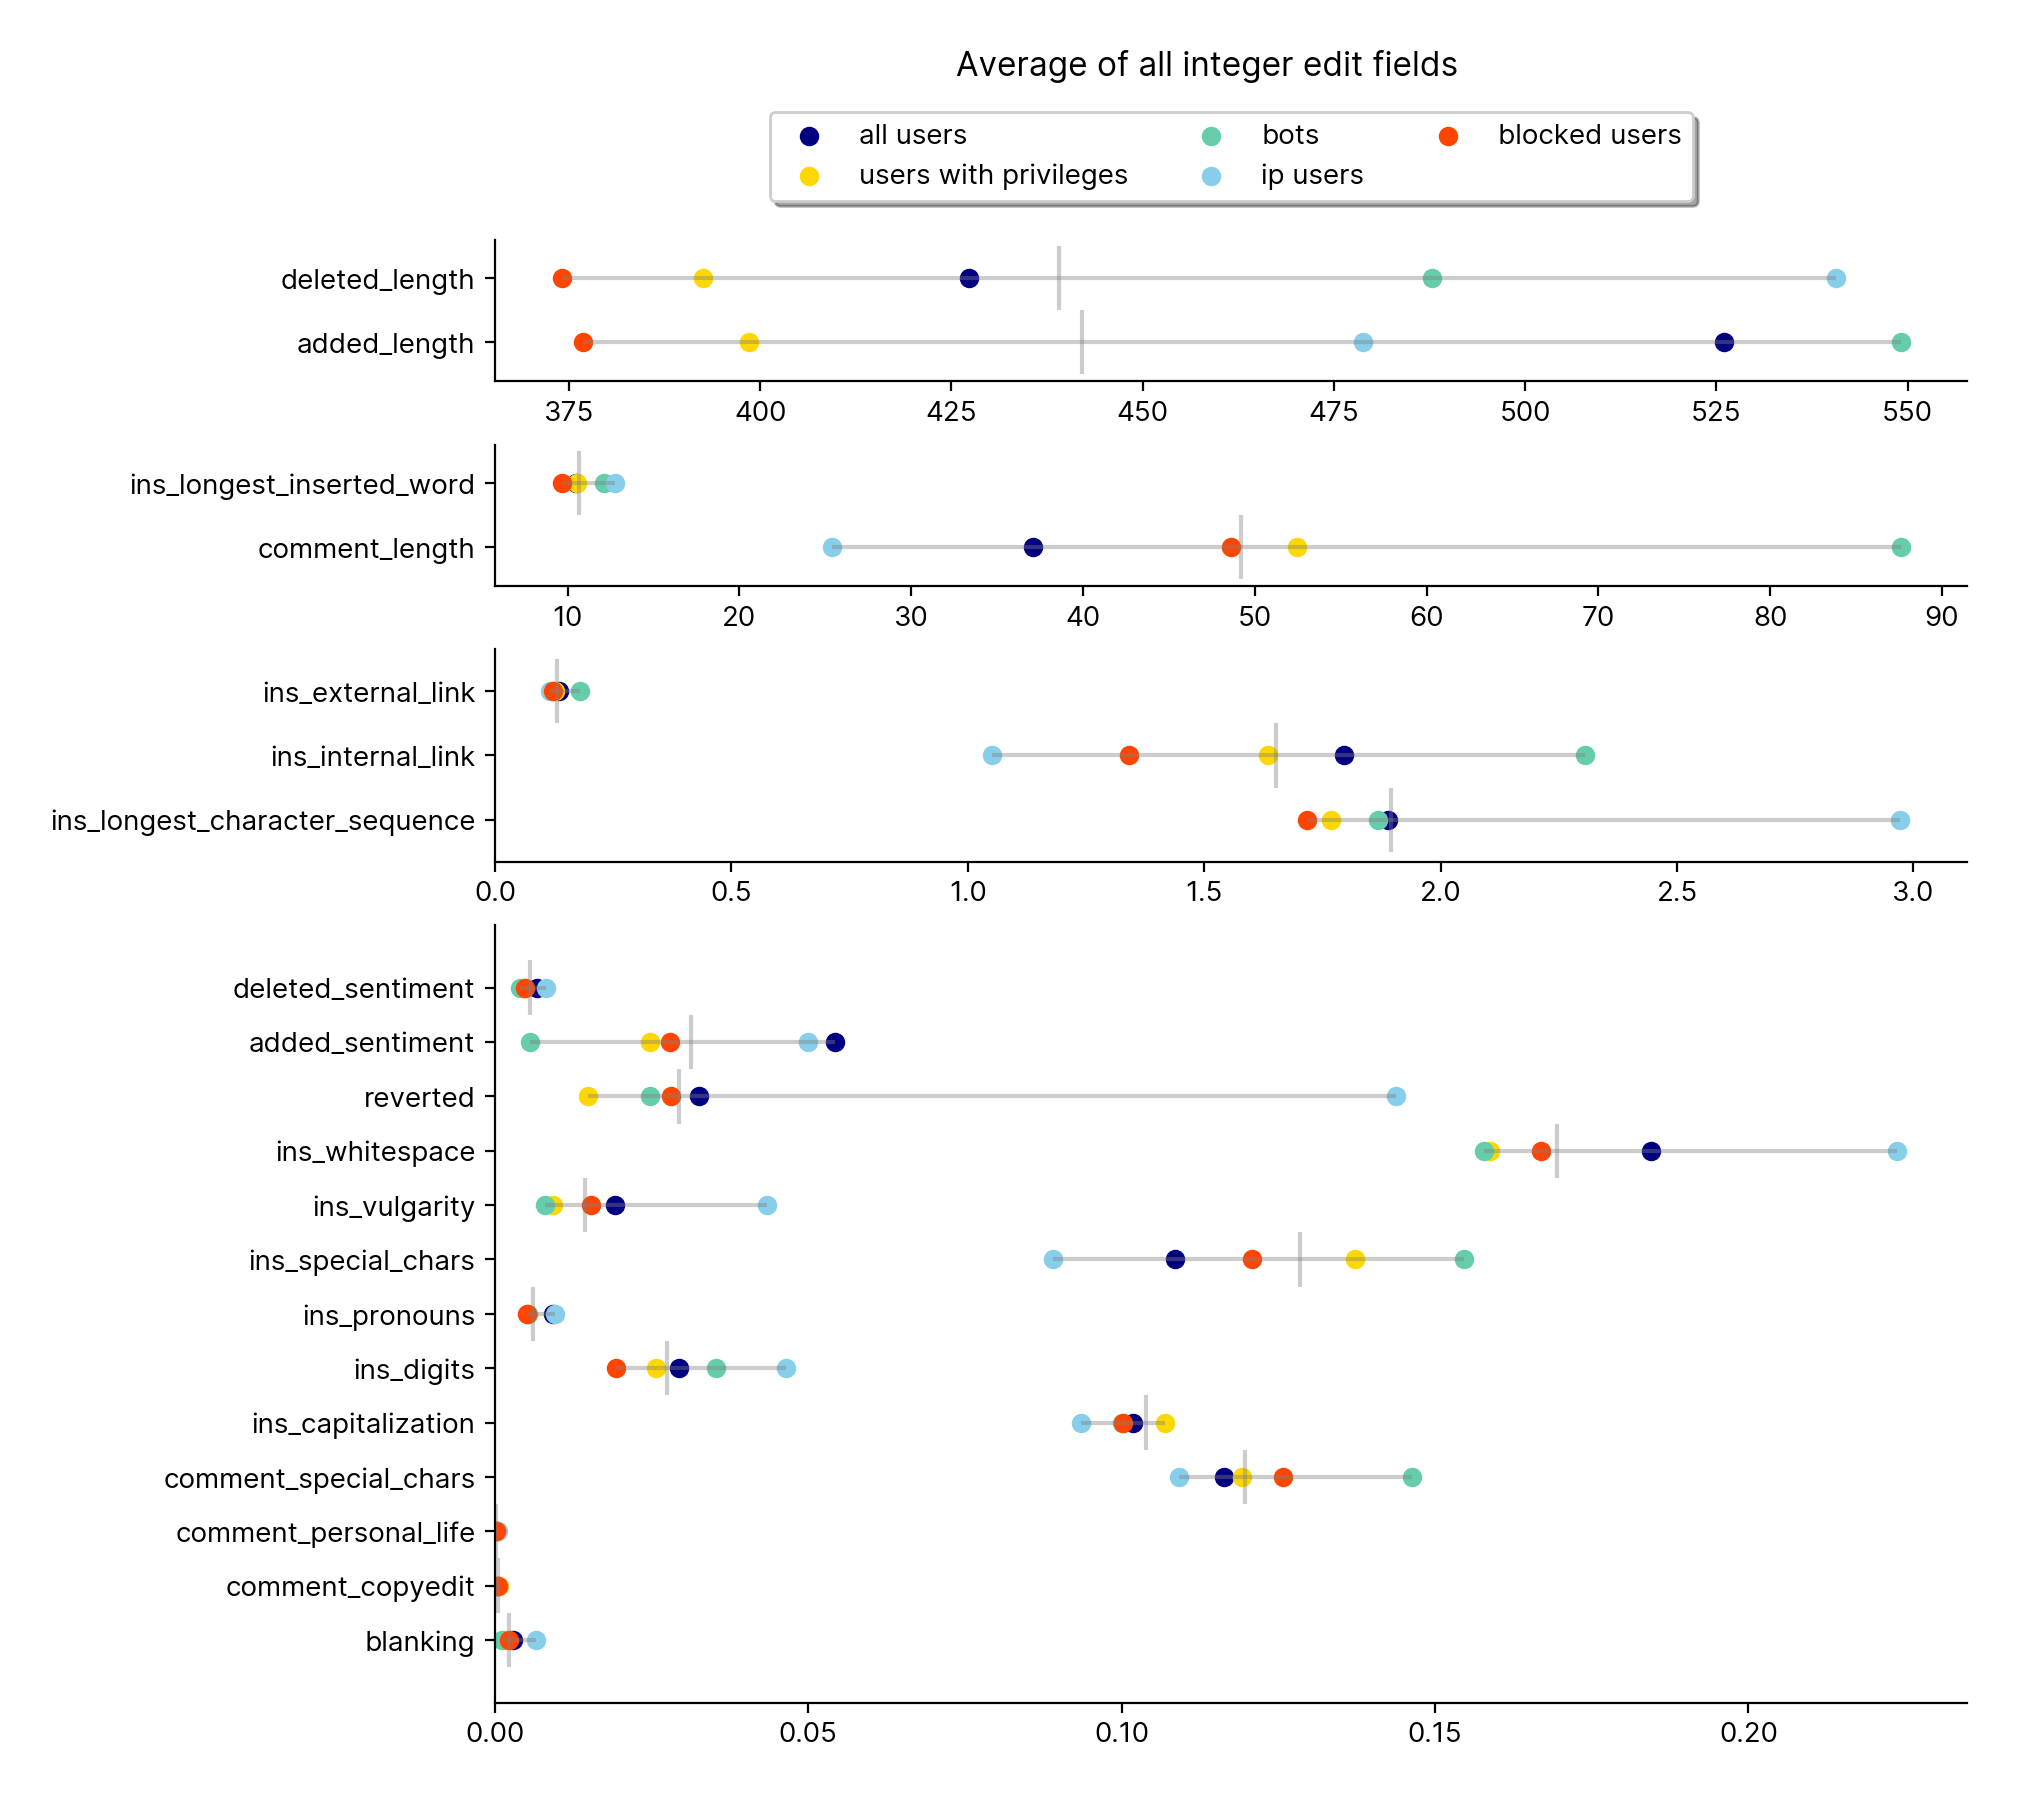
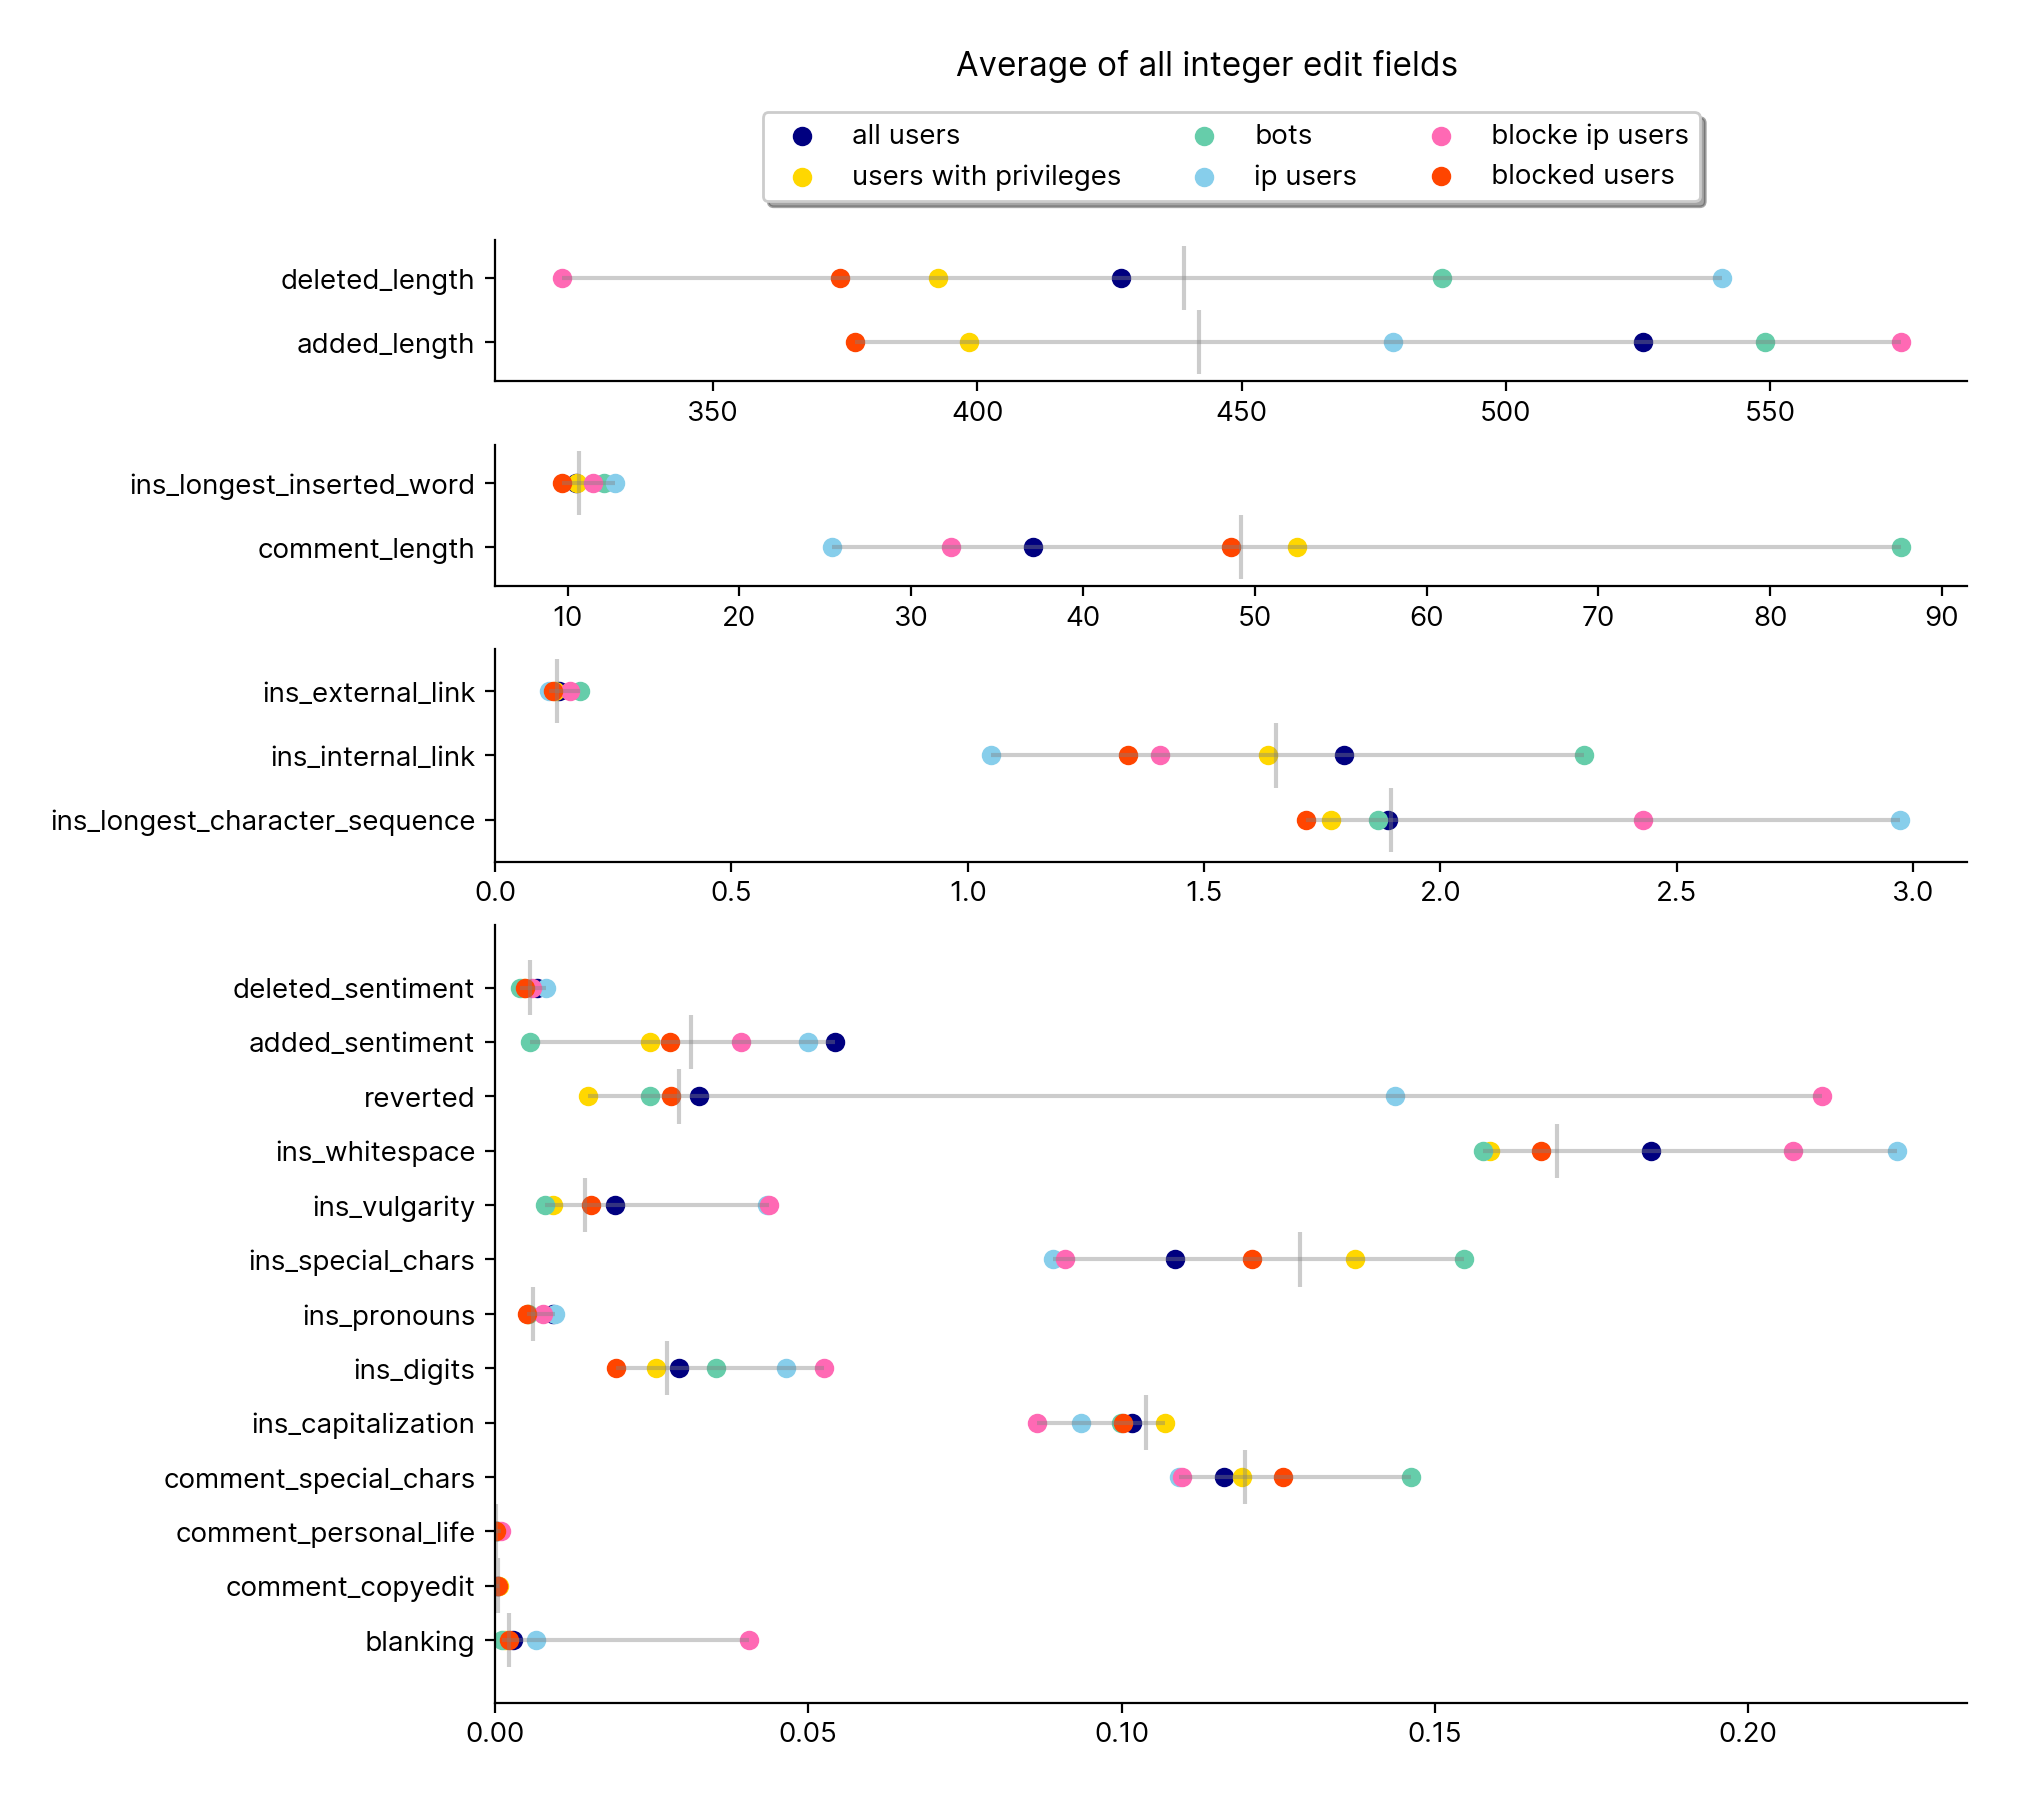
update 14 and 19 with blocked ips

diff --git a/nsdb/plot.py b/nsdb/plot.py
@@ -1199,13 +1199,14 @@ def profanityAll(cursor, i, plotDir, dataDir, dryrun):
         userStd = 0.11028484312384287
 
     data.append(("users", userData))
-    std.append(userData)
+    std.append(userStd)
 
     blocked = """select avg(edit.ins_vulgarity), std(edit.ins_vulgarity)
     from edit
     inner join user
     on edit.user_table_id = user.id
-    where user.blocked is true;"""
+    where user.blocked is true
+    and user.ip_address is not true;"""
     if not dryrun:
         cursor.execute(blocked,)
         blockedData = cursor.fetchall()
@@ -1218,7 +1219,7 @@ def profanityAll(cursor, i, plotDir, dataDir, dryrun):
         blockedStd = 0.12255422751902714
 
     data.append(("blocked", blockedData))
-    std.append(blockedData)
+    std.append(blockedStd)
 
     bots = """select avg(edit.ins_vulgarity), std(edit.ins_vulgarity)
     from edit
@@ -1237,13 +1238,14 @@ def profanityAll(cursor, i, plotDir, dataDir, dryrun):
         botsStd = 0.08899117278773609
 
     data.append(("bots", botsData))
-    std.append(botsData)
+    std.append(botsStd)
 
     ipAddress = """select avg(edit.ins_vulgarity), std(edit.ins_vulgarity)
     from edit
     inner join user
     on edit.user_table_id = user.id
-    where user.ip_address is true;"""
+    where user.ip_address is true
+    and user.blocked is not true;"""
     if not dryrun:
         cursor.execute(ipAddress,)
         ipAddressData = cursor.fetchall()
@@ -1256,7 +1258,27 @@ def profanityAll(cursor, i, plotDir, dataDir, dryrun):
         ipAddressStd = 0.20379850302087404
 
     data.append(("ip", ipAddressData))
-    std.append(ipAddressData)
+    std.append(ipAddressStd)
+
+    ipAddressBlocked = """select avg(edit.ins_vulgarity), std(edit.ins_vulgarity)
+    from edit
+    inner join user
+    on edit.user_table_id = user.id
+    where user.ip_address is true
+    and user.blocked is true;"""
+    if not dryrun:
+        cursor.execute(ipAddressBlocked,)
+        ipAddressBlockedData = cursor.fetchall()
+        ipAddressBlockedStd = ipAddressBlockedData[0][1]
+        ipAddressBlockedData = ipAddressBlockedData[0][0]
+        with open(dataDir + str(i) + "-ipAddressBlocked.txt", "w") as file:
+            file.write(str(ipAddressBlockedData) + "\n" + str(ipAddressBlockedStd))
+    else:
+        ipAddressBlockedData = 0.0437
+        ipAddressBlockedStd = 0.20432362462698245
+
+    data.append(("ip blocked", ipAddressBlockedData))
+    std.append(ipAddressBlockedStd)
 
     fig, ax = plt.subplots()
     ax.set_title("Average profanity per type of user")
@@ -1771,7 +1793,8 @@ def averageAllSpecial(cursor, i, plotDir, dataDir, dryrun):
     ip = """select AVG(added_length),AVG(deleted_length),AVG(del_words),AVG(comment_length),AVG(ins_longest_inserted_word),AVG(ins_longest_character_sequence),AVG(ins_internal_link),AVG(ins_external_link),AVG(blanking),AVG(comment_copyedit),AVG(comment_personal_life),AVG(comment_special_chars),AVG(ins_capitalization),AVG(ins_digits),AVG(ins_pronouns),AVG(ins_special_chars),AVG(ins_vulgarity),AVG(ins_whitespace),AVG(reverted),AVG(added_sentiment),AVG(deleted_sentiment)  FROM edit
     inner join user
     on user.id = edit.user_table_id
-    where user.ip_address is True;"""
+    where user.ip_address is True
+    and user.blocked is not true;"""
     if not dryrun:
         cursor.execute(ip,)
         ipData = cursor.fetchall()
@@ -1780,27 +1803,63 @@ def averageAllSpecial(cursor, i, plotDir, dataDir, dryrun):
             file.write(str(ipData))
     else:
         ipData = [
-            478.8285,
-            540.5966,
-            75.7865,
-            25.4132,
-            12.7463,
-            2.9714,
-            1.0504,
+            478.6787,
+            540.9392,
+            75.8385,
+            25.4024,
+            12.7483,
+            2.9722,
+            1.0498,
             0.1154,
             0.0066,
             0.0002,
             0.0005,
-            0.10915863,
-            0.09347010,
-            0.04646092,
-            0.00952005,
-            0.08899534,
+            0.10915781,
+            0.09348089,
+            0.04645136,
+            0.00952301,
+            0.08899232,
             0.0434,
-            0.22376702,
-            0.1438,
-            0.05001974686845408,
-            0.008109401602654984,
+            0.22379311,
+            0.1437,
+            0.05003652881927706,
+            0.008112887395128948,
+        ]
+
+    ipBlocked = """select AVG(added_length),AVG(deleted_length),AVG(del_words),AVG(comment_length),AVG(ins_longest_inserted_word),AVG(ins_longest_character_sequence),AVG(ins_internal_link),AVG(ins_external_link),AVG(blanking),AVG(comment_copyedit),AVG(comment_personal_life),AVG(comment_special_chars),AVG(ins_capitalization),AVG(ins_digits),AVG(ins_pronouns),AVG(ins_special_chars),AVG(ins_vulgarity),AVG(ins_whitespace),AVG(reverted),AVG(added_sentiment),AVG(deleted_sentiment)  FROM edit
+    inner join user
+    on user.id = edit.user_table_id
+    where user.ip_address is True
+    and user.blocked is true;"""
+    if not dryrun:
+        cursor.execute(ipBlocked,)
+        ipBlockedData = cursor.fetchall()
+        ipBlockedData = list(*ipBlockedData)
+        with open(dataDir + str(i) + "-ipBlocked.txt", "w") as file:
+            file.write(str(ipBlockedData))
+    else:
+        ipBlockedData = [
+            574.6621,
+            321.4382,
+            42.5342,
+            32.2950,
+            11.4884,
+            2.4286,
+            1.4061,
+            0.1595,
+            0.0406,
+            0.0004,
+            0.0010,
+            0.10968559,
+            0.08657087,
+            0.05258113,
+            0.00762512,
+            0.09092609,
+            0.0437,
+            0.20707933,
+            0.2118,
+            0.039283604989237844,
+            0.005879388956523799,
         ]
 
     blocked = """select AVG(added_length),AVG(deleted_length),AVG(del_words),AVG(comment_length),AVG(ins_longest_inserted_word),AVG(ins_longest_character_sequence),AVG(ins_internal_link),AVG(ins_external_link),AVG(blanking),AVG(comment_copyedit),AVG(comment_personal_life),AVG(comment_special_chars),AVG(ins_capitalization),AVG(ins_digits),AVG(ins_pronouns),AVG(ins_special_chars),AVG(ins_vulgarity),AVG(ins_whitespace),AVG(reverted),AVG(added_sentiment),AVG(deleted_sentiment)  FROM edit
@@ -1884,22 +1943,24 @@ def averageAllSpecial(cursor, i, plotDir, dataDir, dryrun):
     axs[0].hlines(
         y=plotRange,
         xmin=[
-            min(a, b, c, d, e)
-            for a, b, c, d, e in zip(
+            min(a, b, c, d, e, f)
+            for a, b, c, d, e, f in zip(
                 data[:end],
                 specialData[:end],
                 blockedData[:end],
                 ipData[:end],
+                ipBlockedData[:end],
                 botData[:end],
             )
         ],
         xmax=[
-            max(a, b, c, d, e)
-            for a, b, c, d, e in zip(
+            max(a, b, c, d, e, f)
+            for a, b, c, d, e, f in zip(
                 data[:end],
                 specialData[:end],
                 blockedData[:end],
                 ipData[:end],
+                ipBlockedData[:end],
                 botData[:end],
             )
         ],
@@ -1919,6 +1980,9 @@ def averageAllSpecial(cursor, i, plotDir, dataDir, dryrun):
     )
     axs[0].scatter(botData[:2], plotRange, color="mediumaquamarine", label="bots")
     axs[0].scatter(ipData[:2], plotRange, color="skyblue", label="ip users")
+    axs[0].scatter(
+        ipBlockedData[:2], plotRange, color="hotpink", label="blocke ip users"
+    )
     axs[0].scatter(blockedData[:2], plotRange, color="orangered", label="blocked users")
     axs[0].set_yticklabels(columns[:2])
     axs[0].set_yticks(plotRange)
@@ -1933,22 +1997,24 @@ def averageAllSpecial(cursor, i, plotDir, dataDir, dryrun):
     axs[1].hlines(
         y=plotRange,
         xmin=[
-            min(a, b, c, d, e)
-            for a, b, c, d, e in zip(
+            min(a, b, c, d, e, f)
+            for a, b, c, d, e, f in zip(
                 data[start:end],
                 specialData[start:end],
                 blockedData[start:end],
                 ipData[start:end],
+                ipBlockedData[start:end],
                 botData[start:end],
             )
         ],
         xmax=[
-            max(a, b, c, d, e)
-            for a, b, c, d, e in zip(
+            max(a, b, c, d, e, f)
+            for a, b, c, d, e, f in zip(
                 data[start:end],
                 specialData[start:end],
                 blockedData[start:end],
                 ipData[start:end],
+                ipBlockedData[start:end],
                 botData[start:end],
             )
         ],
@@ -1971,6 +2037,9 @@ def averageAllSpecial(cursor, i, plotDir, dataDir, dryrun):
     )
     axs[1].scatter(ipData[start:end], plotRange, color="skyblue", label="ip users")
     axs[1].scatter(
+        ipBlockedData[start:end], plotRange, color="hotpink", label="blocked ip users"
+    )
+    axs[1].scatter(
         blockedData[start:end], plotRange, color="orangered", label="blocked users"
     )
     axs[1].set_yticklabels(columns[start:end])
@@ -1983,22 +2052,24 @@ def averageAllSpecial(cursor, i, plotDir, dataDir, dryrun):
     axs[2].hlines(
         y=plotRange,
         xmin=[
-            min(a, b, c, d, e)
-            for a, b, c, d, e in zip(
+            min(a, b, c, d, e, f)
+            for a, b, c, d, e, f in zip(
                 data[start:end],
                 specialData[start:end],
                 blockedData[start:end],
                 ipData[start:end],
+                ipBlockedData[start:end],
                 botData[start:end],
             )
         ],
         xmax=[
-            max(a, b, c, d, e)
-            for a, b, c, d, e in zip(
+            max(a, b, c, d, e, f)
+            for a, b, c, d, e, f in zip(
                 data[start:end],
                 specialData[start:end],
                 blockedData[start:end],
                 ipData[start:end],
+                ipBlockedData[start:end],
                 botData[start:end],
             )
         ],
@@ -2021,6 +2092,9 @@ def averageAllSpecial(cursor, i, plotDir, dataDir, dryrun):
     )
     axs[2].scatter(ipData[start:end], plotRange, color="skyblue", label="ip users")
     axs[2].scatter(
+        ipBlockedData[start:end], plotRange, color="hotpink", label="blocked ip users"
+    )
+    axs[2].scatter(
         blockedData[start:end], plotRange, color="orangered", label="blocked users"
     )
     axs[2].set_yticklabels(columns[start:end])
@@ -2033,22 +2107,24 @@ def averageAllSpecial(cursor, i, plotDir, dataDir, dryrun):
     axs[3].hlines(
         y=plotRange,
         xmin=[
-            min(a, b, c, d, e)
-            for a, b, c, d, e in zip(
+            min(a, b, c, d, e, f)
+            for a, b, c, d, e, f in zip(
                 data[start:],
                 specialData[start:],
                 blockedData[start:],
                 ipData[start:],
+                ipBlockedData[start:],
                 botData[start:],
             )
         ],
         xmax=[
-            max(a, b, c, d, e)
-            for a, b, c, d, e in zip(
+            max(a, b, c, d, e, f)
+            for a, b, c, d, e, f in zip(
                 data[start:],
                 specialData[start:],
                 blockedData[start:],
                 ipData[start:],
+                ipBlockedData[start:],
                 botData[start:],
             )
         ],
@@ -2068,6 +2144,9 @@ def averageAllSpecial(cursor, i, plotDir, dataDir, dryrun):
     )
     axs[3].scatter(botData[start:], plotRange, color="mediumaquamarine", label="bots")
     axs[3].scatter(ipData[start:], plotRange, color="skyblue", label="ip users")
+    axs[3].scatter(
+        ipBlockedData[start:], plotRange, color="hotpink", label="blocked ip users"
+    )
     axs[3].scatter(
         blockedData[start:], plotRange, color="orangered", label="blocked users"
     )
@@ -2109,14 +2188,19 @@ def compositionOfUserIP(cursor, i, plotDir, dataDir, dryrun):
 
     sumUser = data[0] + data[2]
     sumIP = data[1] + data[3]
-    proportinateData = [data[0]/sumUser, data[1]/sumIP,data[2]/sumUser, data[3]/sumIP]
+    proportinateData = [
+        data[0] / sumUser,
+        data[1] / sumIP,
+        data[2] / sumUser,
+        data[3] / sumIP,
+    ]
 
     data = [data[i : i + 2] for i in range(0, len(data), 2)]
 
     xticks = ["users", "ip"]
     labels = ["non-blocked", "blocked"]
 
-    fig, axs = plt.subplots(2,1)
+    fig, axs = plt.subplots(2, 1)
     axs[0].set_title("Comparison of blocked and unblocked\nusers and IPs")
     axs[0].set_ylabel("Number of Users")
     y_pos_1 = y_pos_2 = 0
